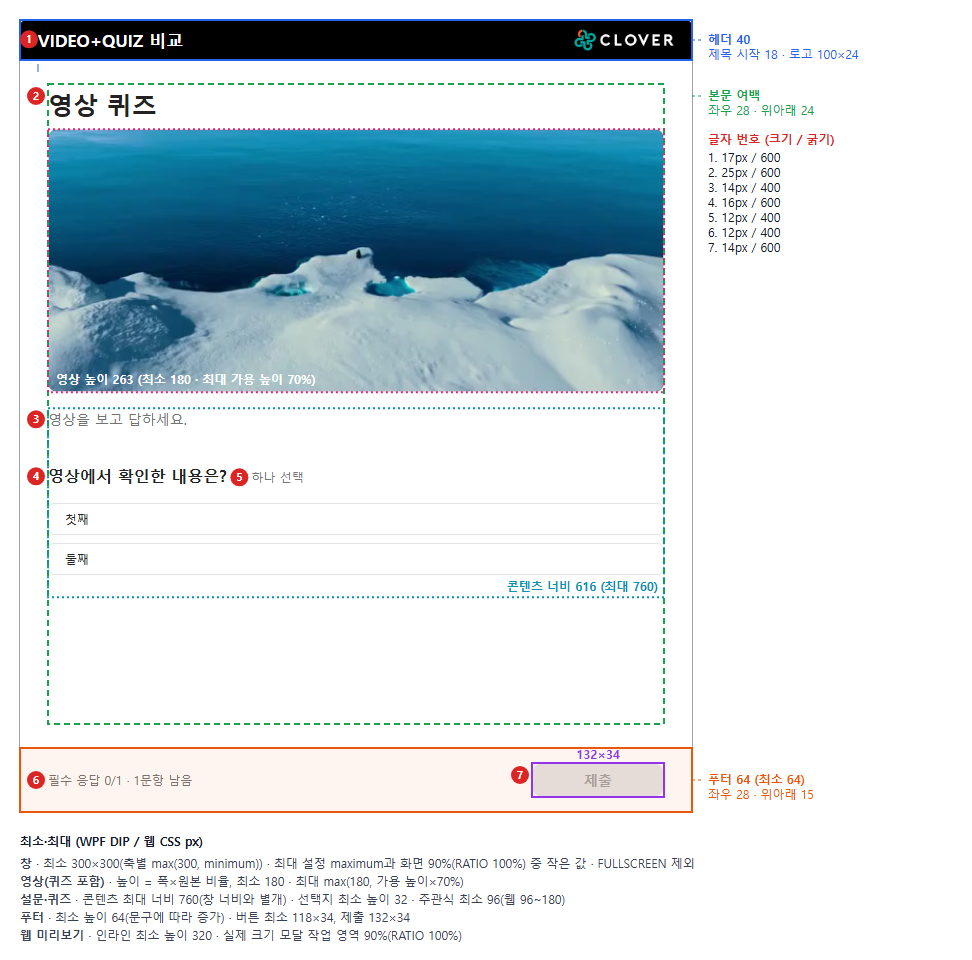
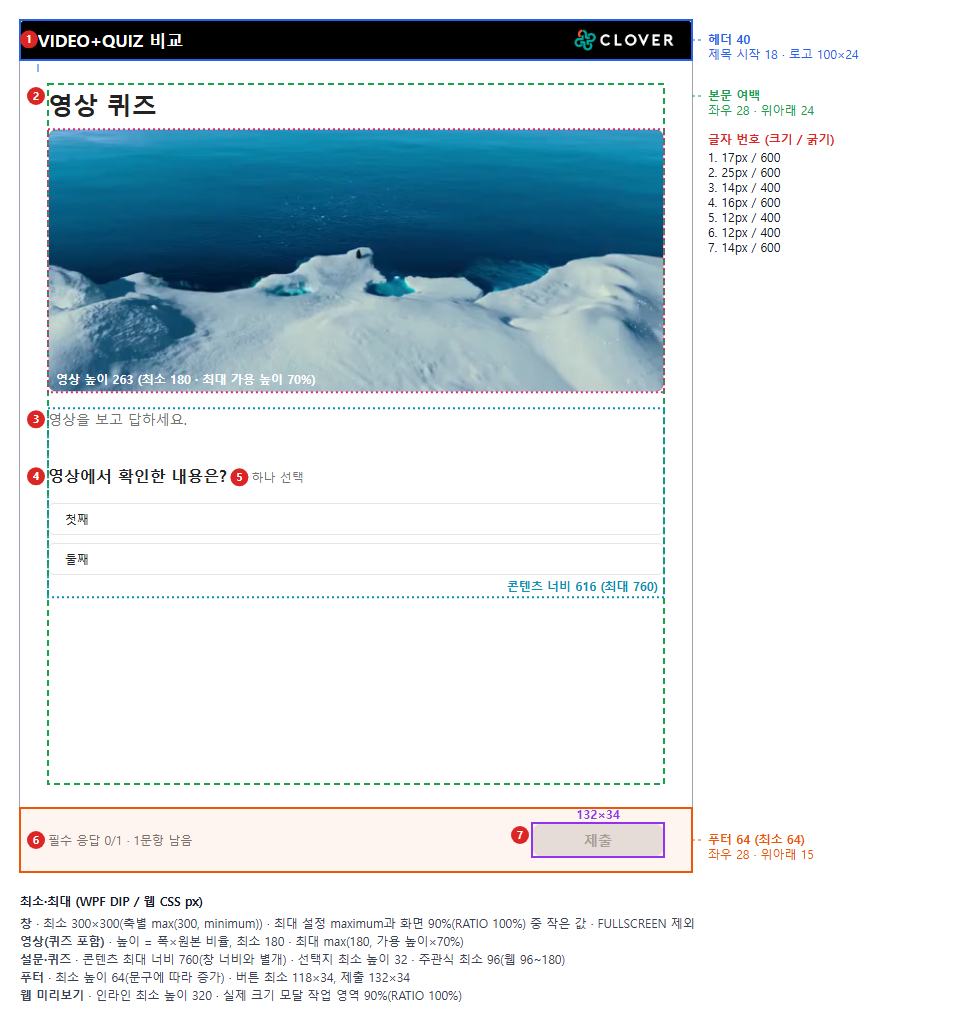
dev: 61_영상창재계산중복축소_수정

diff --git a/popup-frameWork/Popup/Views/Windows/PopupWindow.xaml.cs b/popup-frameWork/Popup/Views/Windows/PopupWindow.xaml.cs
@@ -414,14 +414,17 @@ namespace Popup.Views.Windows
             double inset = WindowInset;
             if (inset <= 0) return;
             // 최소·최대·크기 모두 같은 양을 빼서 다른 유형의 흰 판(창 - 48)과 같은 범위를 쓴다. AUTO는 내용 크기를 따르므로 최소·최대만 줄인다.
+            // 요청 크기는 최대값을 줄이기 전에 읽는다. 표시된 창에서는 MaxHeight를 줄이는 순간 WPF가 Height를 새 최대값으로 낮춰,
+            // 그 값에서 다시 빼면 두 번 줄어든다(요청 높이 = 최대 높이일 때 900 → 804, 2026-11-25 수정).
+            double requestedWidth = Width, requestedHeight = Height;
             MinWidth = Math.Max(0, MinWidth - inset * 2);
             MinHeight = Math.Max(0, MinHeight - inset * 2);
             if (double.IsFinite(MaxWidth)) MaxWidth = Math.Max(MinWidth, MaxWidth - inset * 2);
             if (double.IsFinite(MaxHeight)) MaxHeight = Math.Max(MinHeight, MaxHeight - inset * 2);
             if (SizeToContent == SizeToContent.Manual)
             {
-                if (double.IsFinite(Width)) Width = Math.Clamp(Width - inset * 2, MinWidth, MaxWidth);
-                if (double.IsFinite(Height)) Height = Math.Clamp(Height - inset * 2, MinHeight, MaxHeight);
+                if (double.IsFinite(requestedWidth)) Width = Math.Clamp(requestedWidth - inset * 2, MinWidth, MaxWidth);
+                if (double.IsFinite(requestedHeight)) Height = Math.Clamp(requestedHeight - inset * 2, MinHeight, MaxHeight);
             }
         }
 

diff --git a/scripts/PopupWindowTests/Program.cs b/scripts/PopupWindowTests/Program.cs
@@ -306,6 +306,12 @@ internal static class Program
                 Rect videoPlate = PlateOnScreen(video.Window);
                 Check(Near(videoPlate, textPlate) && Math.Abs(video.Window.ActualWidth - (text.Window.ActualWidth - 48)) < 1,
                     $"[video inset] {type} {mode} {position} {w}x{h}: video plate {videoPlate} matches TEXT plate {textPlate} (window {video.Window.ActualWidth} vs {text.Window.ActualWidth})");
+                // 표시된 창의 재계산(배율·작업 영역 변경 경로)에서도 두 번 줄지 않는다. 요청 높이 = 최대 높이(900)일 때 WPF가 MaxHeight 축소에 맞춰
+                // Height를 먼저 낮추던 문제(900 → 804) 회귀 검사.
+                var refresh = typeof(PopupWindow).GetMethod("RefreshForDisplayChange", BindingFlags.Instance | BindingFlags.NonPublic)!;
+                refresh.Invoke(video.Window, null); refresh.Invoke(text.Window, null);
+                Rect refreshed = PlateOnScreen(video.Window);
+                Check(Near(refreshed, PlateOnScreen(text.Window)), $"[video inset] {type} {mode} {position} {w}x{h}: plate stays after a display refresh ({refreshed})");
                 ShutdownClose(video.Window);
             }
             ShutdownClose(text.Window);

diff --git a/version-history/CHANGELOG.md b/version-history/CHANGELOG.md
@@ -3,10 +3,11 @@
 ## 2026-11-24-19 — dev: 61_영상창판크기맞춤_수정
 
 - 이유 · VIDEO·VIDEO+QUIZ 창은 저사양 PC 부하 때문에 그림자 없는 불투명 창이라 그림자 여백 24도 없어, 같은 설정 크기에서 판이 다른 유형(창 - 48)보다 48 크게 보였다. 그림자 유무보다 크기 차이가 눈에 띄어 크기만 맞춤.
-- 변경 · WPF `PopupWindow`: 기존 크기 계산을 `ApplyRequestedWindowSize`로 분리하고 `ApplyWindowSize`에서 영상 창(전체 화면 제외)의 최소·최대·크기를 사방 `VideoWindowInset` 24씩 줄임(AUTO는 최소·최대만). `ApplyPosition`은 영상 창일 때 작업 영역을 24 안쪽으로 좁혀 위치 계산. 그림자는 계속 없음. 웹: `previewShadowMargin`이 영상 창에도 24(FULLSCREEN만 0), 그림자는 새 `previewWindowShadow`/`previewHostsVideo`로 판단. 61 레이아웃 가이드(공통 창 구조 표·VIDEO 그림 4장 재생성·VIDEO+QUIZ 비교 창 720×840), UI 기본값 사양, 미리보기·WPF 대조 문서, 코드 가이드 공지 갱신. `verify-popup-parity` VIDEO+QUIZ 비교 데이터 높이 900 → 840(작업 영역 높이 약 947인 측정 환경에서 90% 상한 852에 걸려 2026-11-24 상한 통일 이후 실패하던 조건 회피).
+- 변경 · WPF `PopupWindow`: 기존 크기 계산을 `ApplyRequestedWindowSize`로 분리하고 `ApplyWindowSize`에서 영상 창(전체 화면 제외)의 최소·최대·크기를 사방 `VideoWindowInset` 24씩 줄임(AUTO는 최소·최대만). `ApplyPosition`은 영상 창일 때 작업 영역을 24 안쪽으로 좁혀 위치 계산. 그림자는 계속 없음. 웹: `previewShadowMargin`이 영상 창에도 24(FULLSCREEN만 0), 그림자는 새 `previewWindowShadow`/`previewHostsVideo`로 판단. 61 레이아웃 가이드(공통 창 구조 표·VIDEO 그림 4장 재생성·VIDEO+QUIZ 비교 창 720×840), UI 기본값 사양, 미리보기·WPF 대조 문서, 코드 가이드 공지 갱신.
 - 주요 파일 · `popup-frameWork/Popup/Views/Windows/PopupWindow.xaml.cs`, `scripts/PopupWindowTests/Program.cs`, `zero-rule-web/main/src/features/PopupcommonComponent/popupPreviewDialogLayout.ts`, `PopupPreview.tsx`, `guide/guideNotices.ts`, `scripts/verify-popup-preview-61.cjs`, `scripts/verify-popup-parity.cjs`, `docs/design/61_POPUP_LAYOUT_GUIDE.md`, `docs/design/61_popup_layout_guide/PARITY-VIDEO*.png`, `docs/design/61_POPUP_UI_DEFAULTS_SPEC.md`, `docs/reviews/POPUP_PREVIEW_WPF_PARITY.md`.
 - 검증 · WPF 빌드 0/0, `PopupWindowTests` 신규 `CheckVideoWindowInset` 13건(FIXED 3위치·RATIO·720×900·90% 상한·최소 300 → 252·FULLSCREEN 유지, TEXT 흰 판과 화면 좌표 일치) 포함 전체 통과, 로컬 BehaviorTests 1644, 웹 `verify-popup-parity` 54(VIDEO·VIDEO+QUIZ 흰 판 웹=WPF)·`verify-popup-preview-61` 294·completion-ux-43 82·common-sample-69 63·image-preview 48·guide-render·guide-registry, `tsc --noEmit`·eslint 통과. 미실행: Windows 실화면·고DPI, 관리자 웹 실화면, 폐쇄망 반입본.
 - 상태 · 커밋·원격 반영.
+- 보완(2026-11-25) · `verify-popup-parity` VIDEO+QUIZ(720×900, 최대 높이 900)에서 WPF 판이 804로 나와 원인 추적. 측정 환경 작업 영역은 2560×1392로 상한과 무관했고, 표시된 창의 재계산(`RefreshForDisplayChange` → `ApplyWindowSize`)에서 `MaxHeight`를 먼저 줄이는 순간 WPF가 `Height`를 새 최대값(852)으로 낮춘 뒤 다시 48을 빼 두 번 줄어든 결함이었다(요청 높이 = 최대 높이일 때만 발생). 요청 크기를 최대값 축소 전에 읽도록 수정하고, 비교 데이터 높이 840 임시 변경을 900으로 되돌림. `CheckVideoWindowInset`에 표시 후 재계산 검사 추가. WPF 테스트 685(재계산 회귀 검사는 수정 전 코드에서 804로 실패 확인)·BehaviorTests 1644·parity 54(VIDEO+QUIZ 900 복원) 통과, VIDEO+QUIZ 가이드 그림 재생성. 커밋 `dev: 61_영상창재계산중복축소_수정`, 원격 반영.
 
 ## 2026-11-24-18 — dev: PopupAlert_전체섀도우_수정
 

diff --git a/docs/reviews/POPUP_PREVIEW_WPF_PARITY.md b/docs/reviews/POPUP_PREVIEW_WPF_PARITY.md
@@ -86,4 +86,4 @@
 - 현상: 같은 설정 크기에서 VIDEO·VIDEO+QUIZ 판이 다른 유형보다 가로·세로 48 크게 보였다(영상 창은 저사양 PC 부하 때문에 그림자 없는 불투명 창이라 여백 24도 없었음).
 - 변경: WPF `PopupWindow`가 영상 창(전체 화면 제외)을 사방 `VideoWindowInset` 24씩 줄이고 위치도 작업 영역을 그만큼 안쪽으로 좁혀 정한다. 미리보기는 `previewShadowMargin` 24를 영상 창에도 적용하고 그림자만 `previewWindowShadow`로 끈다. 보이는 판이 다른 유형 흰 판과 같은 크기·자리.
 - 검증: `PopupWindowTests` `CheckVideoWindowInset`(FIXED 3위치·RATIO·720×900·90% 상한·최소 300 → 252·FULLSCREEN 유지, TEXT 흰 판과 화면 좌표 일치), `verify-popup-parity` 54(VIDEO·VIDEO+QUIZ 흰 판 웹=WPF), `verify-popup-preview-61` 294.
-- 비교 데이터: VIDEO+QUIZ 창 높이 900 → 840(작업 영역 90% 상한에 걸리지 않게).
+- 보완(2026-11-25): 표시된 창의 재계산(RefreshForDisplayChange)에서 요청 높이 = 최대 높이(900)이면 MaxHeight를 줄이는 순간 WPF가 Height를 낮춰 한 번 더 줄던 문제(900 → 804)를 요청값을 먼저 읽도록 수정. 비교 데이터는 원래 높이 900 유지.

diff --git a/docs/design/61_POPUP_LAYOUT_GUIDE.md b/docs/design/61_POPUP_LAYOUT_GUIDE.md
@@ -241,7 +241,7 @@ node scripts/verify-popup-parity.cjs
 
 웹·WPF 나란히: [PARITY-VIDEO.side.png](61_popup_layout_guide/PARITY-VIDEO.side.png)
 
-### VIDEO+QUIZ (720×840)
+### VIDEO+QUIZ (720×900)
 
 샘플 ID `PARITY-VIDEO-QUIZ`
 
